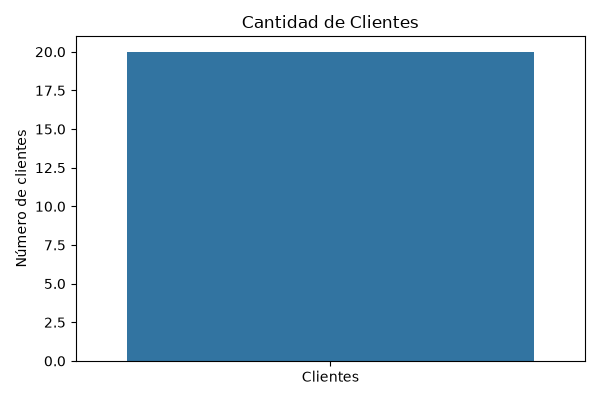
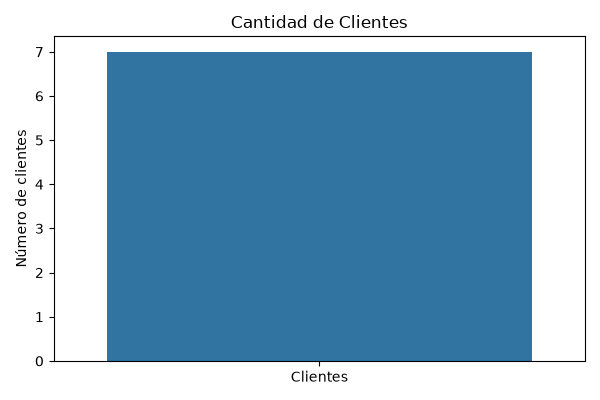
Preparar flask para entorno online

diff --git a/app.py b/app.py
@@ -1,5 +1,7 @@
 from flask import Flask, request
 
+import matplotlib
+matplotlib.use("Agg")
 import matplotlib.pyplot as plt
 import seaborn as sns
 import numpy as np
@@ -139,7 +141,6 @@ def evaluar():
     
     database="asesoria_bd"
 )
-
     cursor = conexion.cursor()
 
     sql = """
